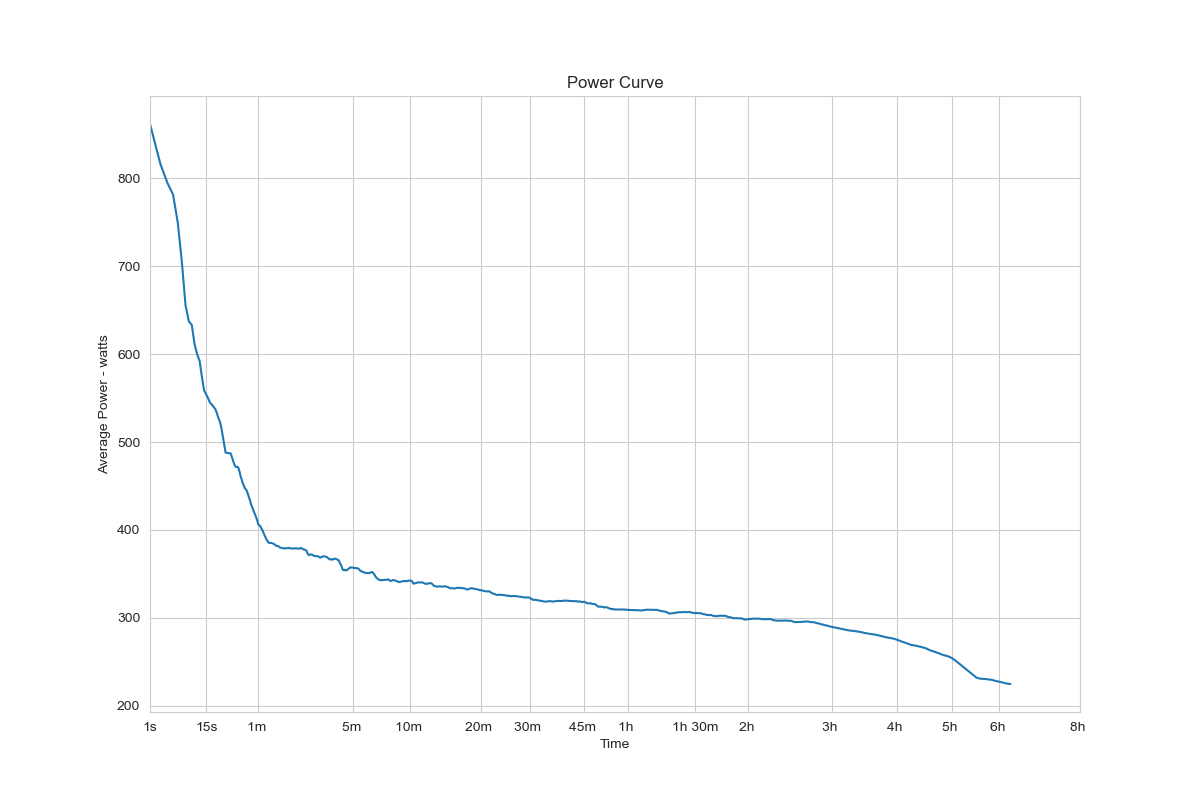
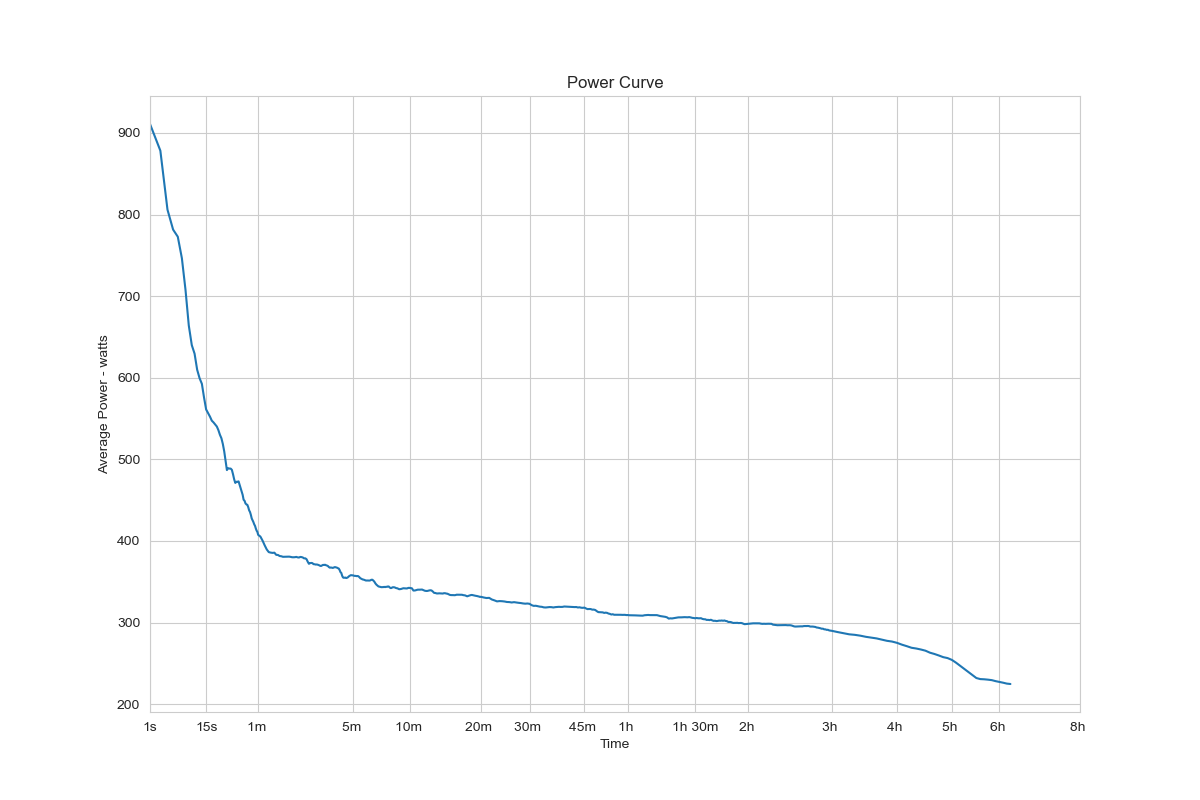
Adding comments

diff --git a/src/best_power_helpers.py b/src/best_power_helpers.py
@@ -25,15 +25,17 @@ def getBestEffort(powerStream: list, previous: list):
 def getBestEfforts(powerStream: list) -> list:
     # best efforts array: index corresponds to time interval, value corresponds to the average power value
     bestEfforts = []
+    # the max one second effort
     bestEfforts.append(max(powerStream))
+    # use the one second rolling sums to calculate the two second rolling sums for the first iteration
     previous = powerStream
     time = []
     # iterate through time intervals from 2 seconds to duration of activity
-    for i in range(len(powerStream) + 1):
-        if i > 1:
+    for i in range(1, len(powerStream) + 1):
             start = timer()
             current, maxPower = getBestEffort(powerStream[(i -1):], previous)
-            bestEfforts.append(maxPower/i)
+            bestEfforts.append(maxPower/(i +1))
+            # the current rolling sums will be used to get the rolling sums in the next iteration
             previous = current
             end = timer()
             time.append(1000 *(end - start))

diff --git a/src/plot_helpers.py b/src/plot_helpers.py
@@ -3,7 +3,7 @@ import pandas as pd
 import numpy as np
 import seaborn as sns
 import matplotlib.pyplot as plt
-from time_interval_helper import generate_intervals, generate_x_ticks
+from time_interval_helper import generate_x_ticks
 
 def plot_power_curve(intervals, power, xscale: float, file):
     sns.set_style("whitegrid")
